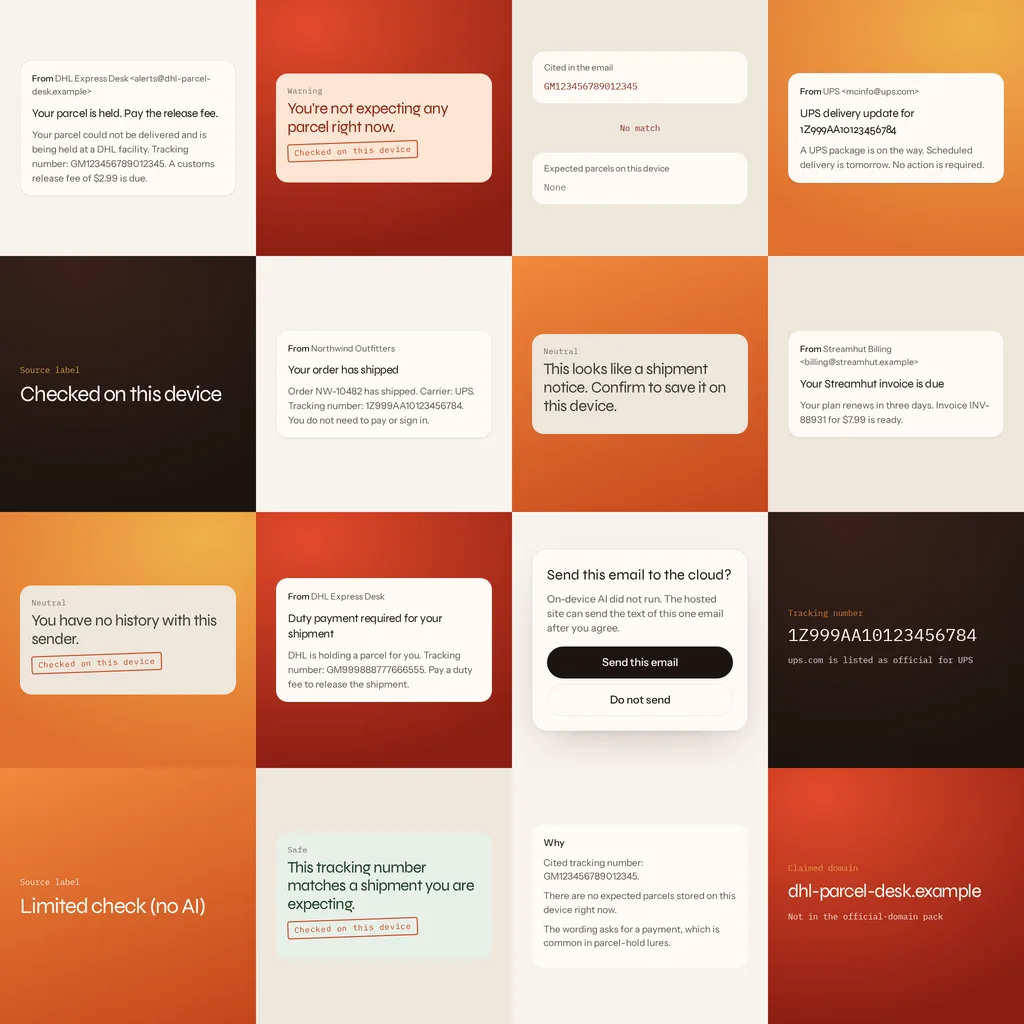
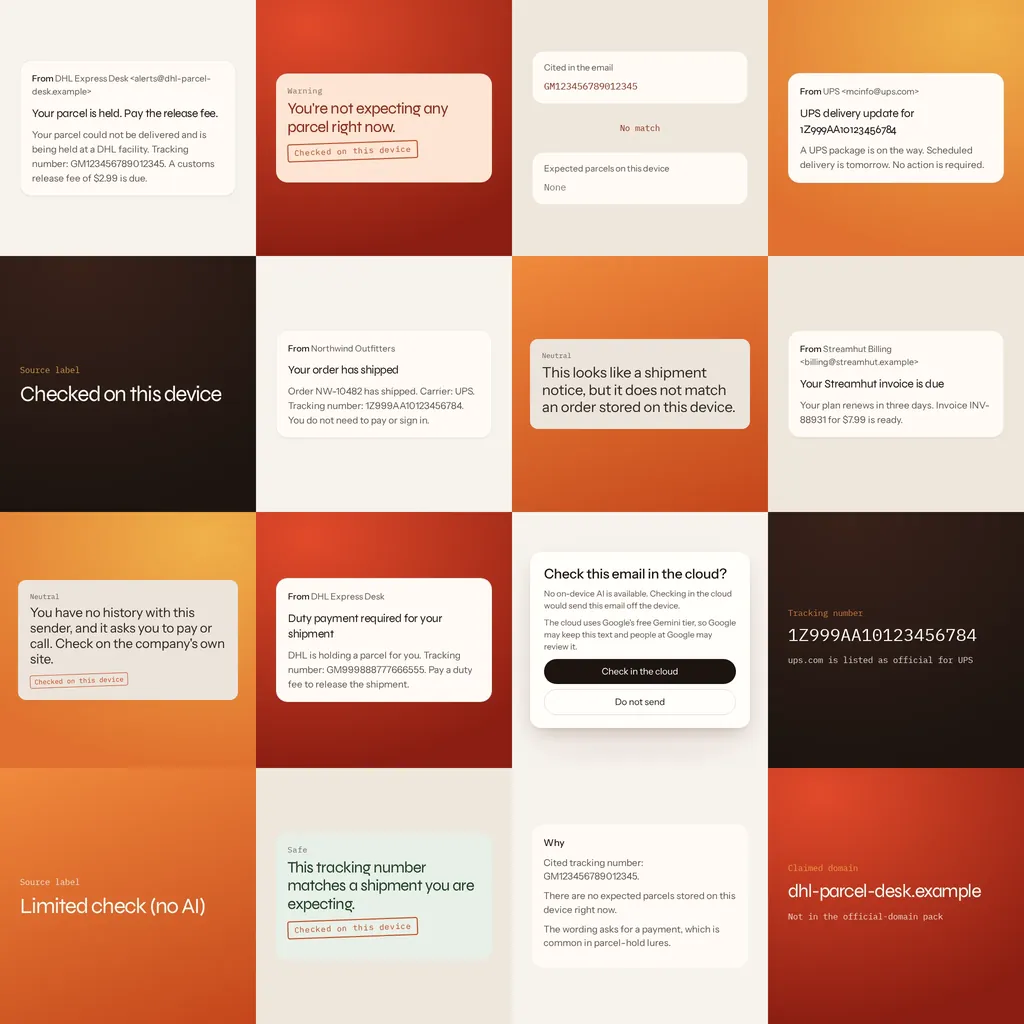
UI-NEXT 33, 29, 28: atlas with today's strings, Illustration captions, renamed card label
Globe atlas (2048 and 1024): the consent tile now reads 'Check this email in the cloud?' with 'Check in the cloud' and both real paragraphs; the Northwind tile shows the live headline '...but it does not match an order stored on this device.'; the Streamhut tile shows the live risky no-history headline. Backgrounds rebuilt from a smooth fit of each tile's gradient; the other 13 tiles are untouched. The home heading still fits two lines at 390. Every stamped static mockup on /, /how-it-works/, /features/ and /privacy/ now carries 'Illustration of an on-device result. Run a real check in the sample inbox.' The demo-next card label reads 'Next, see a match' so it no longer clashes with the next-step reason line.

Claude-Session: https://claude.ai/code/session_01QCfhndVs6AcTpH85SdFSkL

Changed region(s): [[0.5312, 0.5312, 0.7188, 0.7188], [0.0, 0.5625, 0.25, 0.6875], [0.5, 0.3125, 0.7188, 0.4375]]

diff --git a/web/features/index.html b/web/features/index.html
@@ -73,14 +73,14 @@
             </article>
             <article class="bento-tile">
               <div class="tile-visual is-warm"><div class="mock-verdict is-warning"><p class="kicker">Warning</p><p class="headline">You're not expecting any parcel right now.</p><span class="stamp">Checked on this device</span></div></div>
-              <div class="tile-copy">
+              <p class="illus-note">Illustration of an on-device result. Run a real check in the <a href="/app/">sample inbox</a>.</p><div class="tile-copy">
                 <h3>A stamp for every check</h3>
                 <p>Every AI result says where it ran: on this device, or in the cloud after you agreed. Other results say limited check with no AI, not completed, or, on a sample thread, that a prepared sample claim was used.</p>
               </div>
             </article>
             <article class="bento-tile">
               <div class="tile-visual is-ink" style="padding-bottom:20px"><div class="frame-panel"><div class="frame-body"><p style="margin:0 0 8px;font-family:var(--display);font-size:18px;">Did I Order This?</p><p style="margin:0 0 12px;color:var(--secondary);font-size:13px;line-height:18px;">The side panel reads only the Gmail thread that is open.</p><p style="margin:0 0 4px;font-size:12px;"><strong>From</strong> DHL Express Desk</p><p style="margin:0 0 14px;font-size:12px;"><strong>Subject</strong> Your parcel is held. Pay the release fee.</p><p class="btn btn-primary" style="margin:0 0 12px;">Check this email</p><div class="mock-verdict is-warning"><p class="kicker">Warning</p><p class="headline">You're not expecting any parcel right now.</p><span class="stamp">Checked on this device</span></div></div></div></div>
-              <div class="tile-copy">
+              <p class="illus-note">Illustration of an on-device result. Run a real check in the <a href="/app/">sample inbox</a>.</p><div class="tile-copy">
                 <h3>A side panel for an open Gmail thread</h3>
                 <p>The extension reads the message on screen as text. It keeps orders in chrome.storage.local and does not send mail to the cloud.</p>
               </div>

diff --git a/web/privacy/index.html b/web/privacy/index.html
@@ -113,7 +113,7 @@
             </article>
             <article class="bento-tile">
               <div class="tile-visual is-ink" style="padding-bottom:20px"><div class="frame-panel"><div class="frame-body"><p style="margin:0 0 8px;font-family:var(--display);font-size:18px;">Did I Order This?</p><p style="margin:0 0 12px;color:var(--secondary);font-size:13px;line-height:18px;">The side panel reads only the Gmail thread that is open.</p><p style="margin:0 0 4px;font-size:12px;"><strong>From</strong> DHL Express Desk</p><p style="margin:0 0 14px;font-size:12px;"><strong>Subject</strong> Your parcel is held. Pay the release fee.</p><p class="btn btn-primary" style="margin:0 0 12px;">Check this email</p><div class="mock-verdict is-warning"><p class="kicker">Warning</p><p class="headline">You're not expecting any parcel right now.</p><span class="stamp">Checked on this device</span></div></div></div></div>
-              <div class="tile-copy">
+              <p class="illus-note">Illustration of an on-device result. Run a real check in the <a href="/app/">sample inbox</a>.</p><div class="tile-copy">
                 <h3>The extension never sends mail</h3>
                 <p>Cloud checks run on the hosted site, not in the side panel. Orders stay in chrome.storage.local.</p>
               </div>

diff --git a/web/how-it-works/index.html b/web/how-it-works/index.html
@@ -142,7 +142,7 @@
           <div class="bento">
             <article class="bento-tile is-wide">
               <div class="tile-visual is-warm"><div class="mock-verdict is-warning"><p class="kicker">Warning</p><p class="headline">You're not expecting any parcel right now.</p><span class="stamp">Checked on this device</span></div></div>
-              <div class="tile-copy">
+              <p class="illus-note">Illustration of an on-device result. Run a real check in the <a href="/app/">sample inbox</a>.</p><div class="tile-copy">
                 <h3>The model only reads the claim. Deterministic code issues the verdict.</h3>
                 <p>dhl-parcel-desk.example is not in the official-domain pack, which is added as a reason, not as a replacement for the tracking check.</p>
               </div>

diff --git a/web/src/styles-v7.css b/web/src/styles-v7.css
@@ -2518,7 +2518,7 @@ html.ed-anim .ed [data-sign] { clip-path: inset(0 100% 0 0); }
 }
 
 .demo-next::before {
-  content: "Next step";
+  content: "Next, see a match";
   display: block;
   margin-bottom: 6px;
   color: #8b2a16;
@@ -2754,4 +2754,24 @@ html.ed-anim .ed [data-sign] { clip-path: inset(0 100% 0 0); }
     width: 100%;
     margin-top: 4px;
   }
+}
+
+/* Static stamped mockups are illustrations, not live results (UI-NEXT 29) */
+.illus-note {
+  margin: 0;
+  padding: 14px 22px 0;
+  color: var(--secondary);
+  font-size: 12.5px;
+  line-height: 1.45;
+}
+
+.illus-note a {
+  color: inherit;
+  text-decoration: underline;
+  text-underline-offset: 2px;
+}
+
+.is-ink .illus-note,
+.bento-tile .tile-visual.is-ink + .illus-note {
+  color: var(--secondary);
 }

diff --git a/web/index.html b/web/index.html
@@ -110,7 +110,7 @@
   <p class="headline">You're not expecting any parcel right now.</p>
   <span class="stamp">Checked on this device</span>
 </div></div>
-                <div class="tile-copy">
+                <p class="illus-note">Illustration of an on-device result. Run a real check in the <a href="/app/">sample inbox</a>.</p><div class="tile-copy">
                   <h3>What code decides</h3>
                   <p>The model only reads the claim. Deterministic code issues the verdict and the source stamp.</p>
                 </div>
